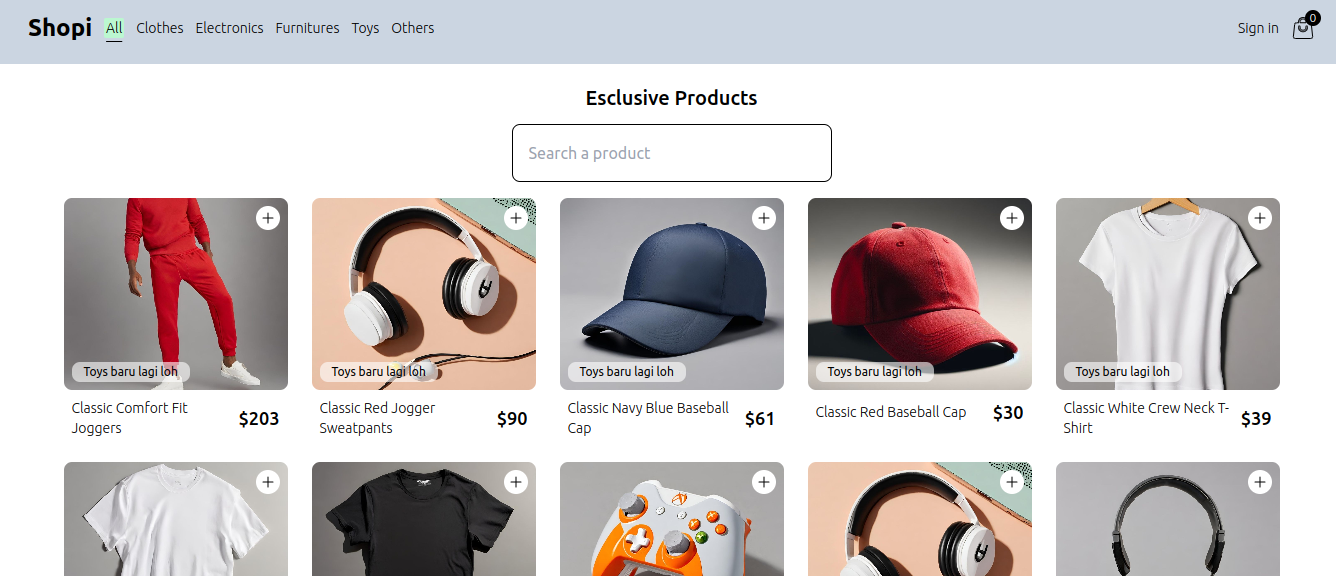
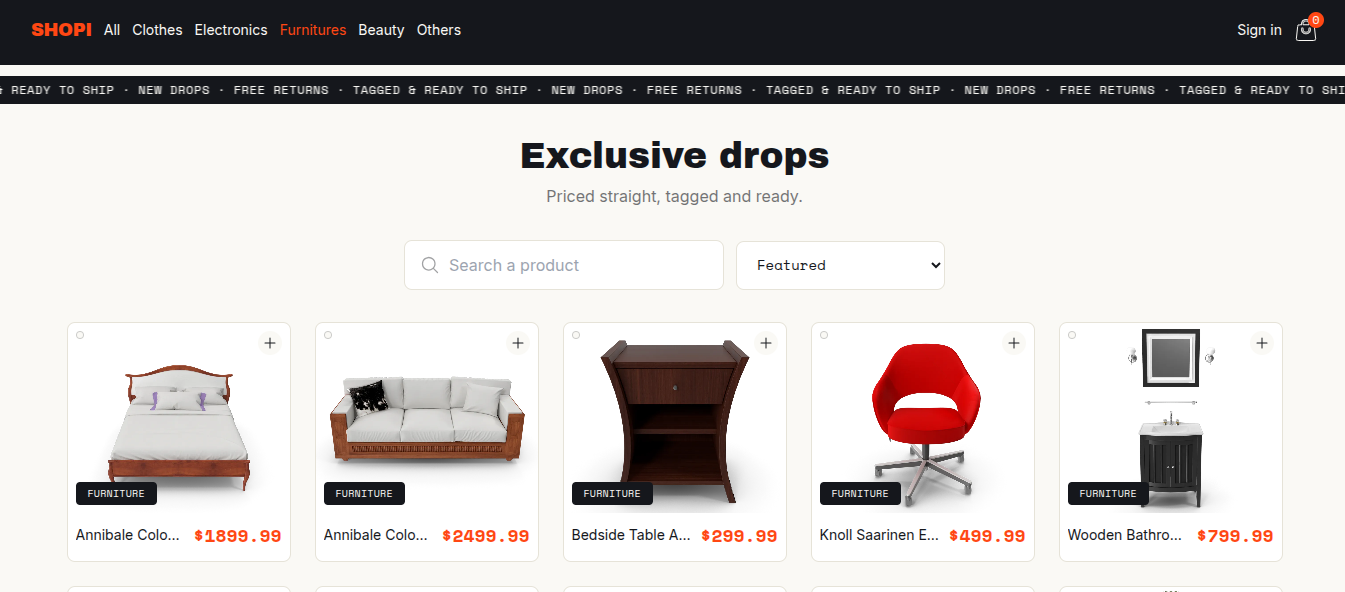
Update Shopi and Todoticket portfolio previews and copy
Shopi is now multi-category (not just clothing) and Todoticket
pivoted to a flight booking concept; new screenshots and updated
descriptions in ES/EN reflect both changes.

Claude-Session: https://claude.ai/code/session_01WhVk2U64mQAU9mexUcppvD

diff --git a/src/i18n/translations.js b/src/i18n/translations.js
@@ -50,12 +50,12 @@ export const translations = {
       },
       {
         nombre: 'Todoticket',
-        resumen: 'Plataforma de gestión y compra de tickets para conciertos',
+        resumen: 'Plataforma de reserva y compra de boletos de vuelo',
         comingSoon: false,
       },
       {
         nombre: 'Shopi',
-        resumen: 'Tienda de ropa online con catálogo y carrito de compras',
+        resumen: 'Tienda online multi-categoría con catálogo y carrito de compras',
         comingSoon: false,
       },
     ],
@@ -339,16 +339,16 @@ export const translations = {
         },
         {
           nombre: 'Todoticket',
-          tipo: 'Plataforma de tickets para eventos',
+          tipo: 'Plataforma de reserva de vuelos',
           descripcion:
-            'Plataforma para la gestión y venta de tickets de conciertos y eventos en vivo. Los organizadores publican sus eventos y controlan el aforo disponible, mientras los asistentes compran sus entradas de forma rápida y segura desde cualquier dispositivo.',
+            'Plataforma para la búsqueda y reserva de vuelos entre destinos en América. Los usuarios eligen origen y destino, agregan acompañantes y reciben su boleto de forma instantánea desde cualquier dispositivo.',
           stack: ['Next.js', 'Tailwind', 'PostgreSQL'],
         },
         {
           nombre: 'Shopi',
-          tipo: 'Tienda online de ropa',
+          tipo: 'Tienda online multi-categoría',
           descripcion:
-            'Tienda online de ropa con catálogo de productos organizado por categorías, tallas y colores, además de un carrito de compras completo para gestionar los pedidos de principio a fin.',
+            'Tienda online con catálogo de productos organizado por categorías (ropa, electrónica, muebles, belleza y más), filtros de búsqueda y un carrito de compras completo para gestionar los pedidos de principio a fin.',
           stack: ['React', 'Vite', 'Tailwind', 'Supabase'],
         },
       ],
@@ -447,12 +447,12 @@ export const translations = {
       },
       {
         nombre: 'Todoticket',
-        resumen: 'Ticket management and purchase platform for concerts',
+        resumen: 'Flight booking and ticket purchase platform',
         comingSoon: false,
       },
       {
         nombre: 'Shopi',
-        resumen: 'Online clothing store with catalog and shopping cart',
+        resumen: 'Multi-category online store with catalog and shopping cart',
         comingSoon: false,
       },
     ],
@@ -735,16 +735,16 @@ export const translations = {
         },
         {
           nombre: 'Todoticket',
-          tipo: 'Ticket platform for live events',
+          tipo: 'Flight booking platform',
           descripcion:
-            'Platform for managing and selling tickets for concerts and live events. Organizers publish events and track available capacity, while attendees buy their tickets quickly and securely from any device.',
+            'Platform for searching and booking flights across destinations in the Americas. Users choose their origin and destination, add companions, and receive their ticket instantly from any device.',
           stack: ['Next.js', 'Tailwind', 'PostgreSQL'],
         },
         {
           nombre: 'Shopi',
-          tipo: 'Online clothing store',
+          tipo: 'Multi-category online store',
           descripcion:
-            'Online clothing store with a product catalog organized by category, size, and color, plus a full shopping cart to manage orders from start to finish.',
+            'Online store with a product catalog organized by category (clothing, electronics, furniture, beauty, and more), search filters, and a full shopping cart to manage orders from start to finish.',
           stack: ['React', 'Vite', 'Tailwind', 'Supabase'],
         },
       ],
